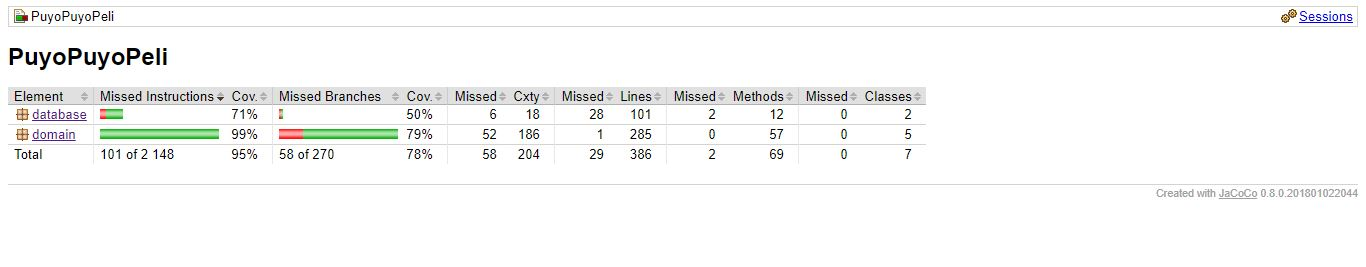
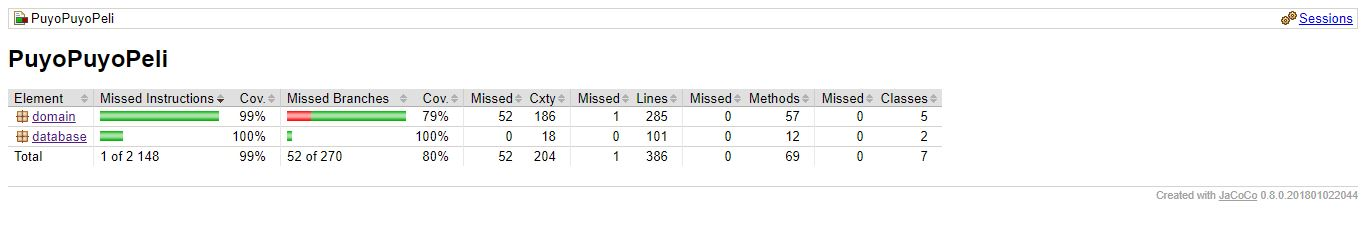
Jatkoin ohjelman testaamista.

diff --git a/PuyoPuyoPeli/src/test/java/database/ScoreDaoTest.java b/PuyoPuyoPeli/src/test/java/database/ScoreDaoTest.java
@@ -190,6 +190,27 @@ public class ScoreDaoTest {
     }
     
     @Test
+    public void findIdReturnsMinusOneIfScoreIsNotInTheDatabase() {
+        Score score1 = new Score(1, 1000, "Pekka");
+        Score score2 = new Score(5, 2012, "Anni");
+        
+        try {
+            scoreDao.save(score1);
+            scoreDao.save(score2);
+        } catch (Exception e) {
+            System.out.println("Jotain meni vikaan tiedon tallentamisessa.");
+        }
+        int id = 0;
+        try {
+            id = scoreDao.findId(new Score(2, 1999, "Mikko"));
+        } catch (Exception e) {
+            System.out.println("Ei voitu löytää id:tä.");
+        }
+        
+        assertEquals(-1, id);
+    }
+    
+    @Test
     public void findByIdWorksProperly() {
         Score score1 = new Score(1, 1000, "Pekka");
         Score score2 = new Score(5, 2012, "Anni");
@@ -211,5 +232,68 @@ public class ScoreDaoTest {
         }
         
         assertEquals(score2, found);
+    }
+    @Test
+    public void findByIdReturnsNullIfThereIsNotSuchId() {
+        Score found = new Score(-1,0,"");
+        try {
+            found = scoreDao.findById(2);
+        } catch (Exception e) {
+            System.out.println("Ei voitu löytää id:tä.");
+        }
+        
+        assertEquals(null, found);
+    }
+    
+    @Test
+    public void findAllInOrderByPointsWorks() {
+        Score score1 = new Score(1, 1000, "Pekka");
+        Score score2 = new Score(5, 2012, "Anni");
+        Score score3 = new Score(-1, 1921, "Matias");
+        
+        try {
+            scoreDao.save(score1);
+            scoreDao.save(score2);
+            scoreDao.save(score3);
+        } catch (Exception e) {
+            System.out.println("Jotain meni vikaan tiedon tallentamisessa.");
+        }
+        List<Score> list = new ArrayList<>();
+        
+        try {
+            list = scoreDao.findAllInOrderByPoints();
+        } catch (Exception e) {
+            System.out.println("Ei voitu löytää id:tä.");
+        }
+        
+        boolean correctOrder = (list.get(0).equals(score2)) 
+                && (list.get(1).equals(score3)) && (list.get(2).equals(score1));
+        assertEquals(true, correctOrder);
+    }
+    
+    @Test
+    public void findAllInOrderByNameWorks() {
+        Score score1 = new Score(1, 1000, "Pekka");
+        Score score2 = new Score(5, 2012, "Matias");
+        Score score3 = new Score(-1, 1921, "Anni");
+        
+        try {
+            scoreDao.save(score1);
+            scoreDao.save(score2);
+            scoreDao.save(score3);
+        } catch (Exception e) {
+            System.out.println("Jotain meni vikaan tiedon tallentamisessa.");
+        }
+        List<Score> list = new ArrayList<>();
+        
+        try {
+            list = scoreDao.findAllInOrderByName();
+        } catch (Exception e) {
+            System.out.println("Ei voitu löytää id:tä.");
+        }
+        
+        boolean correctOrder = (list.get(0).equals(score3)) 
+                && (list.get(1).equals(score2)) && (list.get(2).equals(score1));
+        assertEquals(true, correctOrder);
     }
 }

diff --git a/dokumentointi/tuntikirjanpito.md b/dokumentointi/tuntikirjanpito.md
@@ -27,5 +27,5 @@
 | 7.5   | 1    | Jatkoin testien kirjoittamista. |
 | 8.5   | 2    | Tein alustavan testaus-dokumentin ja jatkoin testien kirjoittamista. Lisäsin ohjelmaan toiminnallisuuden, jossa alas-nuolinäppäintä painamalla Puyot tippuvat nopeammin alaspäin.|
 | 9.5   | 2    | Refaktoroin PuyoPuyoUi:ta lisäämällä metodeja, jotka siistivät hieman start-metodia. Tämä näkyy luokan pituudessa, mutta se on nyt aikaisempaa siistimpi.
-| 10.5  | 2    | Jatkoin dokumentointia päivittämällä vaatimusmäärittelyä sekä arkkitehtuurikuvausta. Tein kaksi uutta sekvenssikaaviota.
+| 10.5  | 2    | Jatkoin dokumentointia päivittämällä vaatimusmäärittelyä sekä arkkitehtuurikuvausta. Tein kaksi uutta sekvenssikaaviota. Jatkoin lisäksi testaamista.
 | summa | 56   |   |
